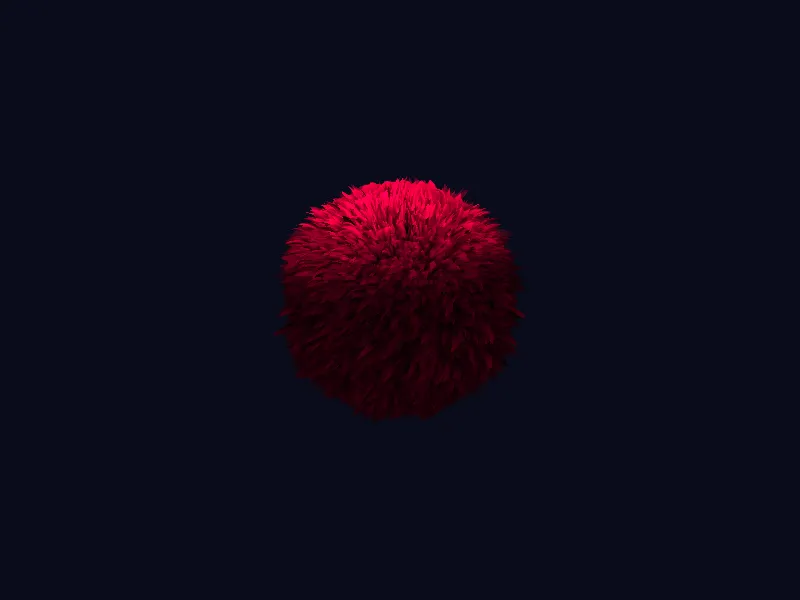
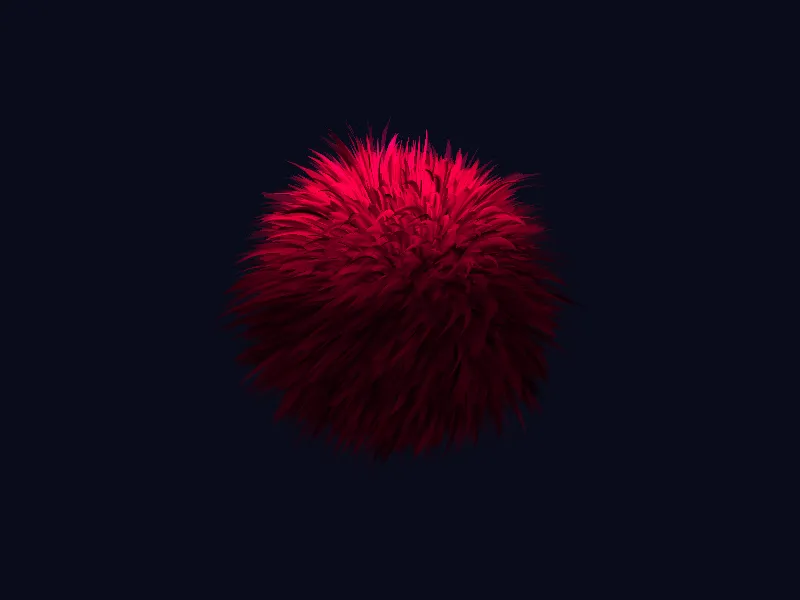
changed params on shells scene & updated thumbs

diff --git a/scripts/Capture.ts b/scripts/Capture.ts
@@ -65,7 +65,7 @@ class MediaCaptureManager {
       await page.goto(url, { waitUntil: 'networkidle2', timeout: 60000 });
 
       // Wait a few seconds
-      await sleep(1500);
+      await sleep(500);
       await this.removeUI(page);
       await page.screenshot({ path: filePath });
     } catch (error) {
